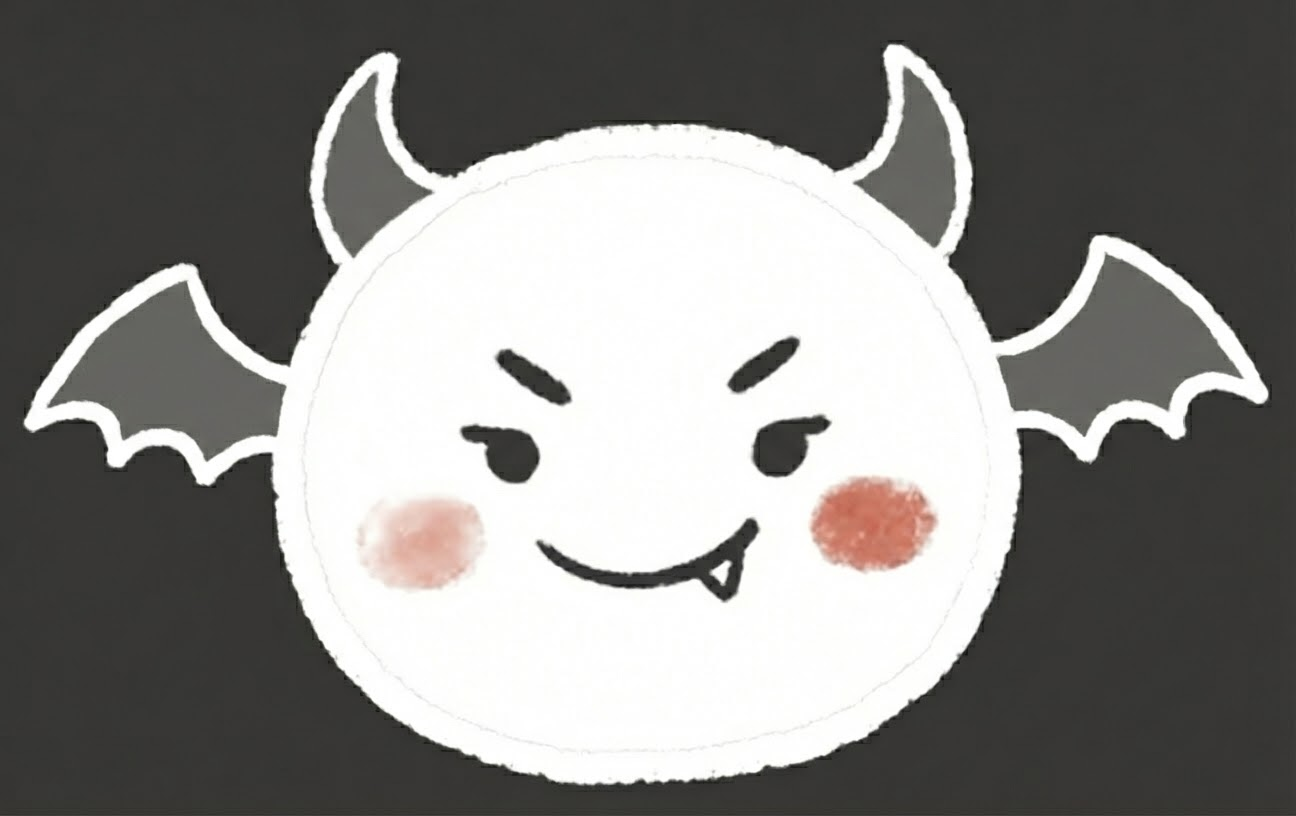
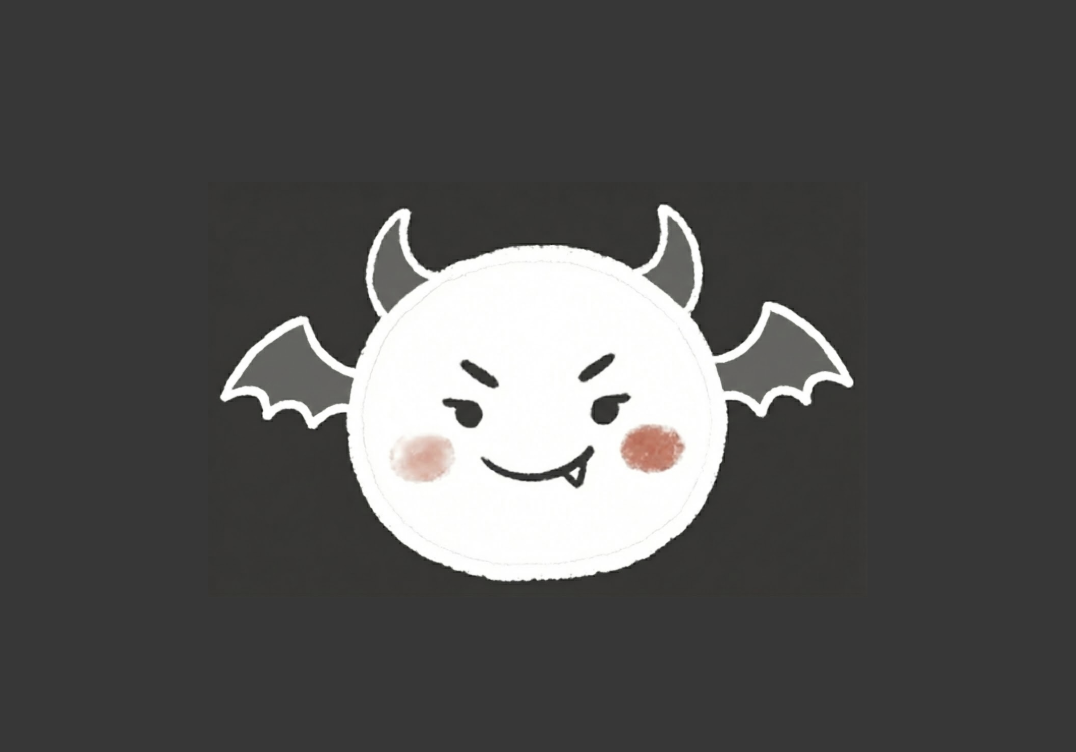
11:51

diff --git a/mobile-client/lib/features/game/pages/game_page.dart b/mobile-client/lib/features/game/pages/game_page.dart
@@ -8,7 +8,7 @@ import '../models/game_models.dart';
 const int timeLimitMs = 2 * 60 * 1000;
 
 /// AIの応答遅延（ミリ秒）
-const int aiResponseDelayMs = 1500;
+const int aiResponseDelayMs = 2000;
 
 class GamePage extends StatefulWidget {
   const GamePage({super.key});
@@ -120,11 +120,24 @@ class _GamePageState extends State<GamePage> with TickerProviderStateMixin {
         _remainingTime = timeLimitMs;
         _phase = GamePhase.playing;
         _lastPlayerResult = null;
-        _lastAiResult = null;
+        _lastAiResult = response.aiFirstWord;
         _winner = null;
         _showGameOverModal = false;
         _selectedLevel = aiLevel;
       });
+      
+      // AI先攻の場合、AIの返答を2秒後に表示
+      if (response.aiFirstWord != null) {
+        setState(() {
+          _isAiThinking = true;
+        });
+        await Future.delayed(const Duration(milliseconds: aiResponseDelayMs));
+        setState(() {
+          _isAiThinking = false;
+          _demonMessage = response.aiFirstWord!.message;
+        });
+      }
+      
       _startTimer();
     } catch (e) {
       _showError('ゲーム開始エラー: $e');
@@ -789,8 +802,8 @@ class _GamePageState extends State<GamePage> with TickerProviderStateMixin {
     
     return Center(
       child: Container(
-        margin: const EdgeInsets.all(24),
-        padding: const EdgeInsets.all(24),
+        margin: const EdgeInsets.symmetric(horizontal: 40),
+        padding: const EdgeInsets.symmetric(horizontal: 20, vertical: 16),
         decoration: BoxDecoration(
           gradient: LinearGradient(
             begin: Alignment.topCenter,
@@ -799,7 +812,7 @@ class _GamePageState extends State<GamePage> with TickerProviderStateMixin {
                 ? [const Color(0xFF1B5E20), const Color(0xFF2D2D2D)]
                 : [const Color(0xFF8B0000), const Color(0xFF2D2D2D)],
           ),
-          borderRadius: BorderRadius.circular(24),
+          borderRadius: BorderRadius.circular(16),
           border: Border.all(
             color: const Color(0xFFD4AF37),
             width: 2,
@@ -808,58 +821,36 @@ class _GamePageState extends State<GamePage> with TickerProviderStateMixin {
         child: Column(
           mainAxisSize: MainAxisSize.min,
           children: [
-            // 悪魔の顔
-            ClipRRect(
-              borderRadius: BorderRadius.circular(50),
-              child: Image.asset(
-                'assets/悪魔.jpg',
-                width: 100,
-                height: 100,
-                fit: BoxFit.cover,
-              ),
-            ),
-            const SizedBox(height: 16),
             Text(
               isPlayerWin ? 'あなたの勝利！' : '悪魔の勝利',
               style: const TextStyle(
-                fontSize: 28,
+                fontSize: 22,
                 color: Color(0xFFD4AF37),
                 fontWeight: FontWeight.bold,
               ),
             ),
-            const SizedBox(height: 12),
-            Text(
-              _demonMessage,
-              style: TextStyle(
-                fontSize: 14,
-                color: Colors.grey[300],
-                fontStyle: FontStyle.italic,
-              ),
-              textAlign: TextAlign.center,
-            ),
-            const SizedBox(height: 24),
+            const SizedBox(height: 16),
             
             // 再戦ボタン（レベル選択）
             const Text(
               '再戦する',
               style: TextStyle(
-                color: Color(0xFFD4AF37),
-                fontSize: 16,
-                fontWeight: FontWeight.bold,
+                color: Colors.white70,
+                fontSize: 14,
               ),
             ),
-            const SizedBox(height: 12),
+            const SizedBox(height: 8),
             Row(
               mainAxisSize: MainAxisSize.min,
               children: [
                 _buildRematchButton('Lv.1', AiLevel.easy),
-                const SizedBox(width: 8),
+                const SizedBox(width: 6),
                 _buildRematchButton('Lv.2', AiLevel.normal),
-                const SizedBox(width: 8),
+                const SizedBox(width: 6),
                 _buildRematchButton('Lv.3', AiLevel.hard),
               ],
             ),
-            const SizedBox(height: 16),
+            const SizedBox(height: 8),
             
             // タイトルに戻るボタン
             TextButton(
@@ -869,9 +860,14 @@ class _GamePageState extends State<GamePage> with TickerProviderStateMixin {
                   _phase = GamePhase.title;
                 });
               },
+              style: TextButton.styleFrom(
+                padding: const EdgeInsets.symmetric(horizontal: 12, vertical: 4),
+                minimumSize: Size.zero,
+                tapTargetSize: MaterialTapTargetSize.shrinkWrap,
+              ),
               child: Text(
                 'タイトルに戻る',
-                style: TextStyle(color: Colors.grey[400]),
+                style: TextStyle(color: Colors.grey[400], fontSize: 12),
               ),
             ),
           ],
@@ -890,9 +886,10 @@ class _GamePageState extends State<GamePage> with TickerProviderStateMixin {
             ? const Color(0xFFD4AF37) 
             : const Color(0xFF3D3D3D),
         foregroundColor: isSelected ? Colors.black : Colors.white,
-        padding: const EdgeInsets.symmetric(horizontal: 20, vertical: 12),
+        padding: const EdgeInsets.symmetric(horizontal: 14, vertical: 8),
+        minimumSize: Size.zero,
         shape: RoundedRectangleBorder(
-          borderRadius: BorderRadius.circular(8),
+          borderRadius: BorderRadius.circular(6),
           side: BorderSide(
             color: isSelected 
                 ? const Color(0xFFD4AF37) 

diff --git a/backend/src/controller/game/controller.ts b/backend/src/controller/game/controller.ts
@@ -3,7 +3,7 @@
  * 悪魔的しりとりのAPI エンドポイント
  */
 
-import { checkTimeLimit, processTurn } from "../../application/ProcessTurnUseCase";
+import { checkTimeLimit, processAiFirstTurn, processTurn } from "../../application/ProcessTurnUseCase";
 import { getRandomMessage } from "../../domain/constants/DemonMessages";
 import type { AiLevel } from "../../domain/services/AiBrainService";
 import { getDictionarySize } from "../../infrastructure/DictionaryRepository";
@@ -44,12 +44,33 @@ export default async function (fastify: ServerInstance) {
     async (request, reply) => {
       const { aiLevel } = request.body;
       const session = createSession(aiLevel as AiLevel);
-      const message = getRandomMessage("gameStart");
+      const startChar = session.expectedStartChar;
+      const firstTurn = session.currentTurn;
+
+      // AI先攻の場合は最初にAIが応答
+      if (firstTurn === "ai") {
+        const aiFirstResult = processAiFirstTurn(session.id);
+        if (aiFirstResult) {
+          const message = `『${startChar}』から始まるぞ。我が先攻だ！`;
+          return reply.status(201).send({
+            session: sessionToJson(aiFirstResult.session),
+            message,
+            dictionarySize: getDictionarySize(),
+            startChar,
+            firstTurn,
+            aiFirstWord: aiFirstResult.aiResult,
+          });
+        }
+      }
+
+      const message = `『${startChar}』から始まるぞ。汝が先攻だ！`;
 
       return reply.status(201).send({
         session: sessionToJson(session),
         message,
         dictionarySize: getDictionarySize(),
+        startChar,
+        firstTurn,
       });
     }
   );

diff --git a/backend/src/infrastructure/GameSessionStore.ts b/backend/src/infrastructure/GameSessionStore.ts
@@ -55,22 +55,41 @@ const sessions = new Map<string, GameSession>();
 /** セッション有効期限（1時間） */
 const SESSION_TTL_MS = 60 * 60 * 1000;
 
+/** しりとりで使用可能なひらがな（開始文字用） */
+const HIRAGANA_START_CHARS = [
+  "あ", "い", "う", "え", "お",
+  "か", "き", "く", "け", "こ",
+  "さ", "し", "す", "せ", "そ",
+  "た", "ち", "つ", "て", "と",
+  "な", "に", "ぬ", "ね", "の",
+  "は", "ひ", "ふ", "へ", "ほ",
+  "ま", "み", "む", "め", "も",
+  "や", "ゆ", "よ",
+  "ら", "り", "る", "れ", "ろ",
+  "わ",
+];
+
 /**
  * 新しいゲームセッションを作成
  */
 export function createSession(aiLevel: AiLevel = 3): GameSession {
   const now = new Date();
+  // 先攻をランダムに決定
+  const firstTurn = Math.random() < 0.5 ? "player" : "ai";
+  // 冒頭のひらがなをランダムに指定
+  const startChar = HIRAGANA_START_CHARS[Math.floor(Math.random() * HIRAGANA_START_CHARS.length)];
+  
   const session: GameSession = {
     id: uuidv4(),
     status: "playing",
-    currentTurn: "player",
+    currentTurn: firstTurn,
     playerMistakeCount: 0,
     aiMistakeCount: 0,
     playerCapturedChars: new Set(),
     aiCapturedChars: new Set(),
     usedWords: new Set(),
     lastWord: null,
-    expectedStartChar: null,
+    expectedStartChar: startChar,
     turnCount: 0,
     roundCount: 0,
     history: [],

diff --git a/backend/src/controller/game/schema.ts b/backend/src/controller/game/schema.ts
@@ -48,11 +48,23 @@ export const createGameRequestSchema = z.object({
   aiLevel: aiLevelSchema.optional().default(3),
 });
 
+/** ターン結果 */
+const turnResultSchema = z.object({
+  word: z.string(),
+  isValid: z.boolean(),
+  message: z.string(),
+  capturedChars: z.array(z.string()),
+  timeExpired: z.boolean().optional(),
+});
+
 /** ゲーム開始レスポンス */
 export const createGameResponseSchema = z.object({
   session: sessionSchema,
   message: z.string(),
   dictionarySize: z.number(),
+  startChar: z.string().optional(),
+  firstTurn: z.enum(["player", "ai"]).optional(),
+  aiFirstWord: turnResultSchema.optional(),
 });
 
 /** ゲーム状態レスポンス */
@@ -63,15 +75,6 @@ export const gameStateResponseSchema = z.object({
 /** 単語送信リクエスト */
 export const submitWordRequestSchema = z.object({
   word: z.string().min(1, "単語を入力してください"),
-});
-
-/** ターン結果 */
-const turnResultSchema = z.object({
-  word: z.string(),
-  isValid: z.boolean(),
-  message: z.string(),
-  capturedChars: z.array(z.string()),
-  timeExpired: z.boolean().optional(),
 });
 
 /** 単語送信レスポンス */

diff --git a/mobile-client/lib/features/game/models/game_models.dart b/mobile-client/lib/features/game/models/game_models.dart
@@ -158,11 +158,17 @@ class CreateGameResponse {
   final GameSession session;
   final String message;
   final int dictionarySize;
+  final String? startChar;
+  final String? firstTurn;
+  final TurnResult? aiFirstWord;
 
   CreateGameResponse({
     required this.session,
     required this.message,
     required this.dictionarySize,
+    this.startChar,
+    this.firstTurn,
+    this.aiFirstWord,
   });
 
   factory CreateGameResponse.fromJson(Map<String, dynamic> json) {
@@ -170,6 +176,11 @@ class CreateGameResponse {
       session: GameSession.fromJson(json['session'] as Map<String, dynamic>),
       message: json['message'] as String,
       dictionarySize: json['dictionarySize'] as int,
+      startChar: json['startChar'] as String?,
+      firstTurn: json['firstTurn'] as String?,
+      aiFirstWord: json['aiFirstWord'] != null
+          ? TurnResult.fromJson(json['aiFirstWord'] as Map<String, dynamic>)
+          : null,
     );
   }
 }

diff --git a/backend/src/application/ProcessTurnUseCase.ts b/backend/src/application/ProcessTurnUseCase.ts
@@ -447,3 +447,26 @@ function processAiTurn(
 
   return { word, isValid: true, message, capturedChars };
 }
+
+/**
+ * AI先攻時の最初のターンを処理
+ */
+export function processAiFirstTurn(sessionId: string): {
+  session: GameSession;
+  aiResult: NonNullable<TurnResult["aiResult"]>;
+} | null {
+  const session = getSession(sessionId);
+  if (!session) return null;
+
+  // AIのターンを処理
+  const aiResult = processAiTurn(session);
+
+  // AIが有効な単語を出した場合、プレイヤーのターンに切り替え
+  if (aiResult.isValid) {
+    session.currentTurn = "player";
+    session.turnStartedAt = new Date();
+  }
+
+  updateSession(session);
+  return { session, aiResult };
+}
